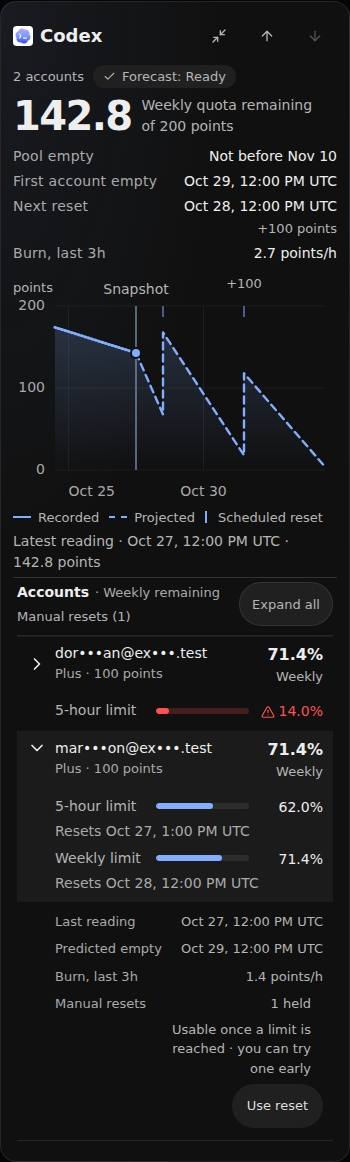
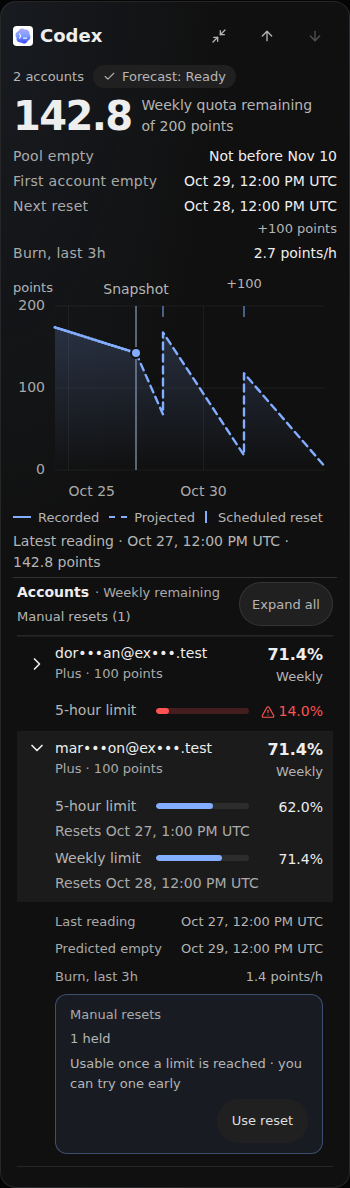
feat(quota): set manual resets apart in an accent bubble
The manual-resets fact now sits in its own rounded bubble, tinted with the
provider's accent, so a spendable reset stands out from the plain facts.
On phones the bubble spans the row with its label above the value so the
status keeps the full width. A running Claude claim no longer shows
"Claude reports none usable right now" beside "Usable now".

diff --git a/src/features/quotaPool/QuotaPoolPage.module.scss b/src/features/quotaPool/QuotaPoolPage.module.scss
@@ -2098,9 +2098,17 @@ $pool-error: #ff5252;
   display: none;
 }
 .accountDetails > .accountResets {
-  // Its own line under the other facts at every width, so a longer status never moves it.
+  // Its own line under the other facts at every width, so a longer status never moves it, in
+  // a bubble tinted with the provider's accent so a spendable reset is easy to find.
   grid-column: 1 / -1;
-  flex: 1 0 100%;
+  justify-self: start;
+  order: 2;
+  width: fit-content;
+  max-width: 100%;
+  padding: 10px 14px;
+  border: 1px solid color-mix(in srgb, var(--pool-accent) 35%, transparent);
+  border-radius: 12px;
+  background: color-mix(in srgb, var(--pool-accent) 8%, transparent);
   align-items: start;
   dt {
     flex-shrink: 0;
@@ -2129,15 +2137,32 @@ $pool-error: #ff5252;
   white-space: nowrap;
   font-size: 13px;
 }
+// The wide details strip wraps facts in a row; this break puts the bubble on the next line.
+@media (min-width: 901px) {
+  .accountDetails:has(> .accountResets)::after {
+    content: '';
+    order: 1;
+    flex-basis: 100%;
+  }
+}
 @media (max-width: 640px) {
+  // Inside its bubble the status needs the full width, so the label sits above the value.
+  .accountDetails > .accountResets {
+    justify-self: stretch;
+    width: auto;
+    flex-direction: column;
+    align-items: stretch;
+    gap: 4px;
+    dd {
+      grid-template-columns: minmax(0, 1fr);
+      text-align: left;
+    }
+  }
   .accountResets .resetAction {
     grid-column: 1 / -1;
     grid-row: 3;
     justify-self: end;
     min-height: 44px;
-  }
-  .accountResets dd {
-    grid-template-columns: minmax(0, 1fr);
   }
 }
 .resetDialog {

diff --git a/src/features/quotaPool/PoolAccountResets.tsx b/src/features/quotaPool/PoolAccountResets.tsx
@@ -218,8 +218,8 @@ function ClaudeResetAction({ file, session, onRefresh, accountId, spent, ...fact
           ? undefined
           : reset.message
             ? t(`claude_reset.${reset.message}`)
-            : reset.blocked
-              ? // A finished read with nothing usable is not still loading.
+            : reset.blocked && !reset.busy
+              ? // A finished read with nothing usable is not still loading; a running claim is neither.
                 t(
                   reset.count === null
                     ? 'quota_pool.reset_loading'
